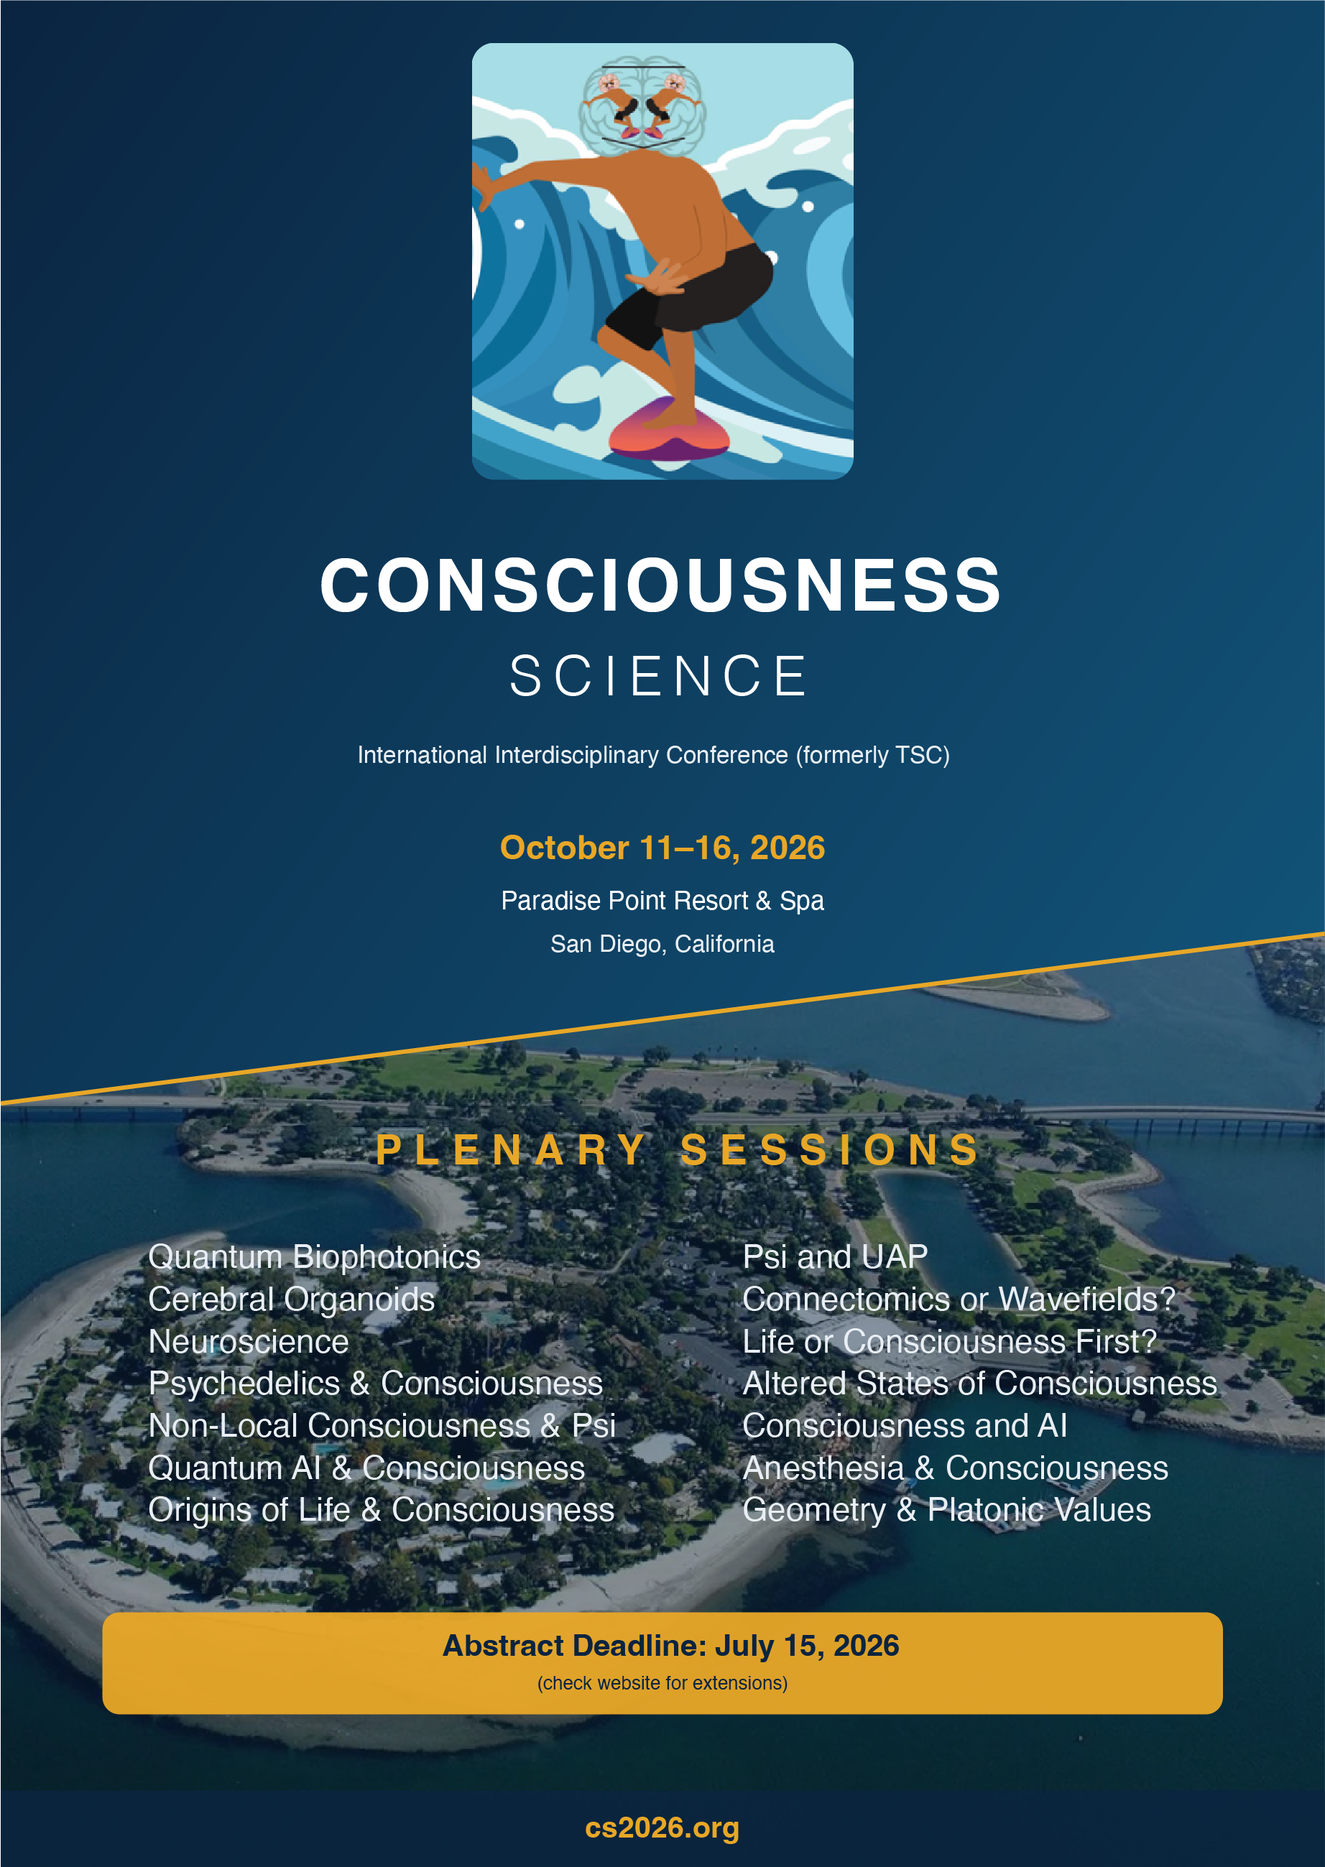
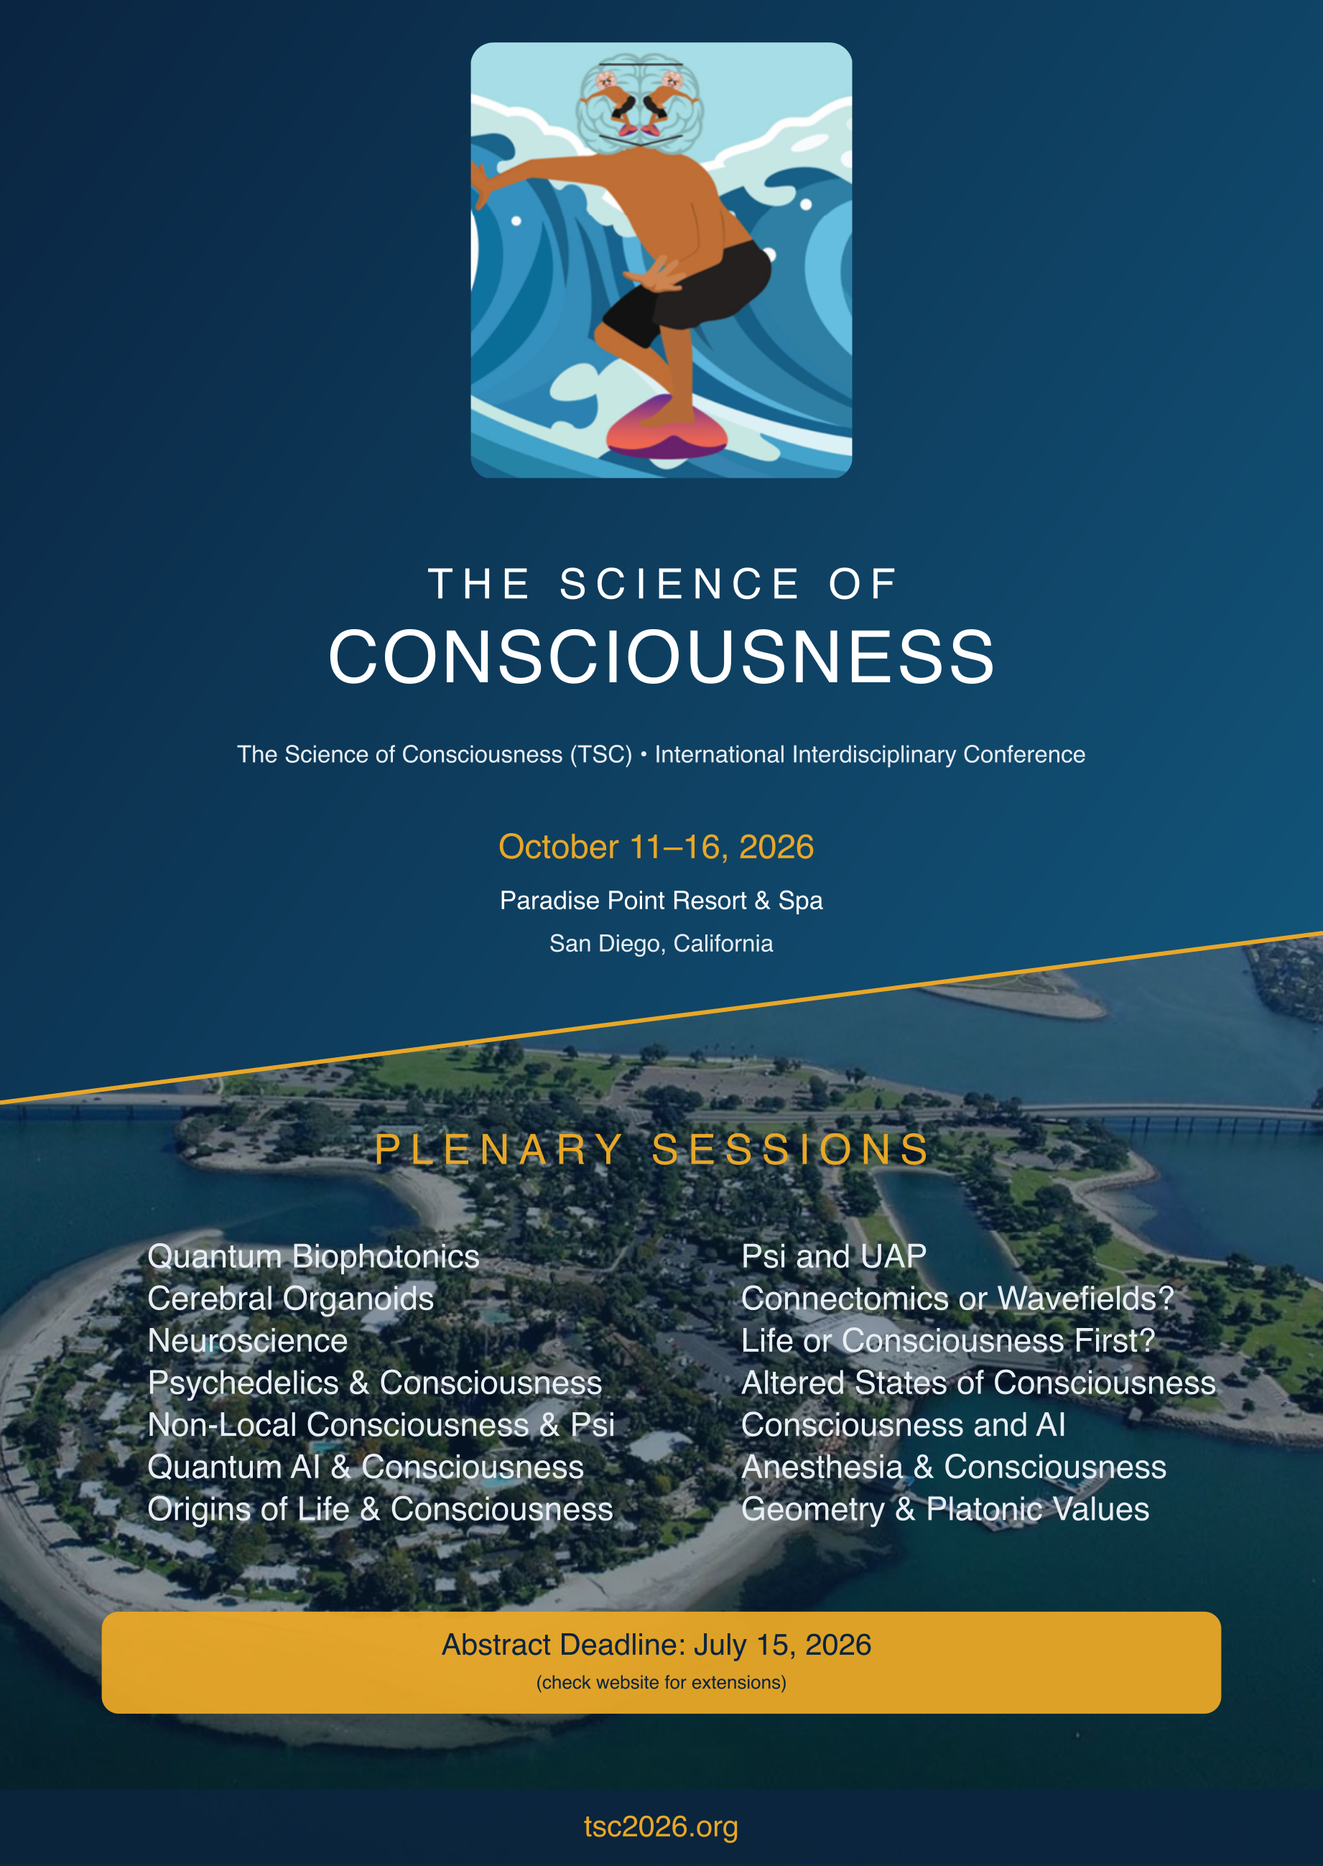
remove moss

diff --git a/workshops.html b/workshops.html
@@ -74,28 +74,6 @@ footer { background: #0a2440; color: #8baac8; padding: 2.5rem 2rem; text-align: 
 footer a { color: #c8ddf0; }
 footer .foot-brand { font-size: 1.05rem; font-weight: 700; color: #fff; margin-bottom: .5rem; }
 
-.login-overlay {
-  position: fixed; inset: 0; z-index: 9999;
-  background: linear-gradient(135deg, #0a2440 0%, #0d3868 40%, #14628a 70%, #1a96b8 100%);
-  display: flex; align-items: center; justify-content: center;
-}
-.login-box {
-  background: #fff; border-radius: 12px; padding: 2.5rem 2rem;
-  max-width: 360px; width: 90%; box-shadow: 0 8px 32px rgba(0,0,0,.3); text-align: center;
-}
-.login-box h2 { font-size: 1.3rem; color: #0a2440; margin-bottom: .3rem; }
-.login-box p { font-size: .85rem; color: #666; margin-bottom: 1.5rem; }
-.login-box input {
-  display: block; width: 100%; padding: .55rem .8rem; margin-bottom: .8rem;
-  border: 1px solid #ccc; border-radius: 6px; font-size: .9rem; font-family: inherit;
-}
-.login-box input:focus { outline: none; border-color: #1a96b8; }
-.login-box button {
-  width: 100%; padding: .6rem; background: #0a2440; color: #fff;
-  border: none; border-radius: 6px; font-size: .95rem; font-weight: 600; cursor: pointer; transition: background .2s;
-}
-.login-box button:hover { background: #14628a; }
-.login-error { color: #c0392b; font-size: .8rem; margin-top: .5rem; display: none; }
 
 @media (max-width: 768px) {
   .topnav ul { display: none; flex-direction: column; position: absolute; top: 56px; left: 0; right: 0; background: rgba(10,36,64,.98); padding: 1rem 2rem; gap: .8rem; }
@@ -108,19 +86,6 @@ footer .foot-brand { font-size: 1.05rem; font-weight: 700; color: #fff; margin-b
 <link rel="stylesheet" href="theme.css">
 </head>
 <body>
-
-<div class="login-overlay" id="loginOverlay">
-  <div class="login-box">
-    <h2>Program Access</h2>
-    <p>This page is restricted to committee members.</p>
-    <form onsubmit="return checkLogin()">
-      <input type="text" id="loginUser" placeholder="Login" autocomplete="off">
-      <input type="password" id="loginPass" placeholder="Password">
-      <button type="submit">Enter</button>
-      <div class="login-error" id="loginError">Incorrect login or password.</div>
-    </form>
-  </div>
-</div>
 
 <nav class="topnav">
   <a href="index.html" class="nav-brand">
@@ -136,7 +101,7 @@ footer .foot-brand { font-size: 1.05rem; font-weight: 700; color: #fff; margin-b
 
 <header class="page-header">
   <h1 id="pageTitle">Workshops</h1>
-  <p class="subtitle" id="pageSubtitle">Sunday, October 11 &middot; 10 workshops</p>
+  <p class="subtitle" id="pageSubtitle">Sunday, October 11 &middot; 6 workshops</p>
 </header>
 
 <div class="back-bar">
@@ -146,34 +111,21 @@ footer .foot-brand { font-size: 1.05rem; font-weight: 700; color: #fff; margin-b
 <div class="session-menu">
   <h2>Select a workshop:</h2>
   <div class="menu-grid">
-    <button class="menu-btn" data-slot="morning" data-panel="s1" onclick="showSession(this,'s1')">W1: Quantum Cognition <span class="btn-time">Morning 9:00&ndash;12:30</span></button>
+    <button class="menu-btn" data-slot="morning" data-panel="s1" onclick="showSession(this,'s1')">W1: Psi &amp; Consciousness <span class="btn-time">Morning 8:30&ndash;12:30</span></button>
     <button class="menu-btn" data-slot="morning" data-panel="s2" onclick="showSession(this,'s2')">W2: Indian Knowledge Systems <span class="btn-time">Morning 9:00&ndash;12:30</span></button>
-    <button class="menu-btn" data-slot="morning" data-panel="s3" onclick="showSession(this,'s3')">W3: Education &amp; Quantum Mind <span class="btn-time">Morning 9:00&ndash;10:20</span></button>
-    <button class="menu-btn" data-slot="morning" data-panel="s4" onclick="showSession(this,'s4')">W4: Economic Systems <span class="btn-time">Morning 10:40&ndash;12:30</span></button>
-    <button class="menu-btn" data-slot="afternoon" data-panel="s5" onclick="showSession(this,'s5')">W5: Brain EM Field <span class="btn-time">Afternoon 2:00&ndash;6:00</span></button>
-    <button class="menu-btn" data-slot="afternoon" data-panel="s6" onclick="showSession(this,'s6')">W6: Photobiomodulation <span class="btn-time">Afternoon 2:00&ndash;6:00</span></button>
-    <button class="menu-btn" data-slot="afternoon" data-panel="s7" onclick="showSession(this,'s7')">W7: Psi &amp; Consciousness <span class="btn-time">Afternoon 2:00&ndash;3:50</span></button>
-    <button class="menu-btn" data-slot="afternoon" data-panel="s8" onclick="showSession(this,'s8')">W8: NDEs &amp; OBEs <span class="btn-time">Afternoon 2:00&ndash;6:00</span></button>
-    <button class="menu-btn" data-slot="afternoon" data-panel="s9" onclick="showSession(this,'s9')">W9: Enlightenment <span class="btn-time">Afternoon 4:10&ndash;6:00</span></button>
-    <button class="menu-btn" data-slot="afternoon" data-panel="s10" onclick="showSession(this,'s10')">W10: Non-Human Consciousness <span class="btn-time">Evening 7:00&ndash;10:00</span></button>
+    <button class="menu-btn" data-slot="morning" data-panel="s3" onclick="showSession(this,'s3')">W3: Women in Consciousness Science <span class="btn-time">Morning 9:00&ndash;10:20</span></button>
+    <button class="menu-btn" data-slot="afternoon" data-panel="s4" onclick="showSession(this,'s4')">W4: Brain EM Field <span class="btn-time">Afternoon 2:00&ndash;4:00</span></button>
+    <button class="menu-btn" data-slot="afternoon" data-panel="s5" onclick="showSession(this,'s5')">W5: NDEs &amp; OBEs <span class="btn-time">Afternoon 2:00&ndash;4:00</span></button>
+    <button class="menu-btn" data-slot="afternoon" data-panel="s6" onclick="showSession(this,'s6')">W6: Non-Human Consciousness <span class="btn-time">Evening 7:00&ndash;10:00</span></button>
   </div>
 </div>
 
 <div class="session-wrap">
 
-<div class="session-panel" data-slot="morning" id="s1">
-  <h3>W1: Quantum Cognition</h3>
-  <div class="ws-meta">Sunday morning &middot; 9:00 am &ndash; 12:30 pm</div>
-  <ol>
-    <li><strong>Jerome R. Busemeyer</strong></li>
-    <li><strong>Harald Atmanspacher</strong></li>
-    <li><strong>Nao Tsuchiya</strong></li>
-  </ol>
-</div>
-
 <div class="session-panel" data-slot="morning" id="s2">
   <h3>W2: Bridging Awareness Dimensions through Quantum Perception, Biology and Music in the Indian Knowledge System Framework</h3>
-  <div class="ws-meta">Sunday morning &middot; 9:00 am &ndash; 12:30 pm &middot; Chair: Laxmidhar Behera</div>
+  <div class="ws-meta">Sunday morning &middot; 9:00 am &ndash; 12:30 pm &middot; Chair: Anirban Bandyopadhyay</div>
+  <p style="font-size:.92rem;color:#555;margin:.2rem 0 .9rem;">Rooted in the Indian Knowledge System, this workshop bridges contemplative insight with modern science &mdash; exploring how quantum perception, biology, and music illuminate the structure of awareness. Drawing on quantum biology, music cognition, signal processing, and meditative practice, the speakers consider consciousness as a resonant, multi-dimensional phenomenon spanning matter, sound, and mind.</p>
   <ol>
     <li><strong>Chayan Nandi</strong></li>
     <li><strong>Venkatesh Chembrulu</strong></li>
@@ -186,69 +138,45 @@ footer .foot-brand { font-size: 1.05rem; font-weight: 700; color: #fff; margin-b
 </div>
 
 <div class="session-panel" data-slot="morning" id="s3">
-  <h3>W3: Education and Transformative Learning, Quantum Mind</h3>
+  <h3>W3: Women in Consciousness Science and Education</h3>
   <div class="ws-meta">Sunday morning &middot; 9:00 am &ndash; 10:20 am</div>
   <ol>
     <li><strong>Joan Walton</strong></li>
     <li><strong>Laurel Waterman</strong></li>
     <li><strong>Marjorie Woollacott</strong></li>
-    <li><strong>Suzanne Gildert</strong></li>
   </ol>
 </div>
 
-<div class="session-panel" data-slot="morning" id="s4">
-  <h3>W4: Consciousness of Economic Systems</h3>
-  <div class="ws-meta">Sunday morning &middot; 10:40 am &ndash; 12:30 pm</div>
-  <ol>
-    <li><strong>Ron Chrisley</strong></li>
-    <li><strong>Richard Ebstein</strong></li>
-    <li><strong>Giorgia Lucchini</strong></li>
-    <li><strong>Kathryn Nave</strong></li>
-    <li><strong>Chew Soo Hong</strong></li>
-    <li><strong>Patrick Schotanus</strong></li>
-    <li><strong>Uzi Awret</strong></li>
-  </ol>
-</div>
-
-<div class="session-panel" data-slot="afternoon" id="s5">
-  <h3>W5: Brain Electromagnetic Field Generation and Information Processing</h3>
-  <div class="ws-meta">Sunday afternoon &middot; 2:00 pm &ndash; 6:00 pm</div>
+<div class="session-panel" data-slot="afternoon" id="s4">
+  <h3>W4: Brain Electromagnetic Field Generation and Information Processing</h3>
+  <div class="ws-meta">Sunday afternoon &middot; 2:00 pm &ndash; 4:00 pm &middot; Chair: M. Bruce MacIver</div>
+  <p style="font-size:.92rem;color:#555;margin:.2rem 0 .9rem;">Electromagnetic field (EMF) theories propose that consciousness arises from the dynamic electromagnetic field generated by the brain&rsquo;s neuronal currents &mdash; the activity reflected in the EEG. Building on evidence that the brain&rsquo;s strongest field activity is directed inward toward its central regions, the workshop examines how these fields integrate neural activity, why external shielding leaves consciousness unaffected while deep-brain stimulation alters it, and what this implies for the binding and &ldquo;hard&rdquo; problems of consciousness. (See MacIver, <a href="https://www.frontiersin.org/journals/human-neuroscience/articles/10.3389/fnhum.2022.1032339/full" target="_blank" rel="noopener">Consciousness and inward electromagnetic field interactions</a>.)</p>
   <ol>
     <li><strong>M. Bruce MacIver</strong></li>
     <li><strong>Johnjoe McFadden</strong></li>
     <li><strong>Michael Levin</strong> (Remote)</li>
-    <li><strong>Arnaud Delorme</strong></li>
     <li><strong>Tam Hunt</strong></li>
   </ol>
 </div>
 
-<div class="session-panel" data-slot="afternoon" id="s6">
-  <h3>W6: Photobiomodulation (PBM)-Induced Deep Meditation &ldquo;Jhana&rdquo; States</h3>
-  <div class="ws-meta">Sunday afternoon &middot; 2:00 pm &ndash; 6:00 pm &middot; Audience participation</div>
+<div class="session-panel" data-slot="morning" id="s1">
+  <h3>W1: Psi &amp; Consciousness</h3>
+  <div class="ws-meta">Sunday morning &middot; 8:30 am &ndash; 12:30 pm &middot; Chair: Thomas Brophy</div>
+  <p style="font-size:.92rem;color:#555;margin:.2rem 0 .9rem;">Can mind reach beyond the brain and body? This workshop presents the experimental study of telepathy, mediumship, out-of-body experiences, and mind&ndash;matter interaction &mdash; with an emphasis on methodological rigour, replication, and peer-reviewed evidence. Together, the talks survey much of the research program of the Institute of Noetic Sciences (IONS).</p>
   <ol>
-    <li><strong>Lew Lim</strong></li>
-    <li><strong>Sanjay Manchandran</strong></li>
-    <li><strong>Reza Zomorrodi</strong></li>
-    <li><strong>Vielight staff</strong></li>
-  </ol>
-</div>
-
-<div class="session-panel" data-slot="afternoon" id="s7">
-  <h3>W7: Psi &amp; Consciousness &ndash; Telepathy &amp; Mindsight</h3>
-  <div class="ws-meta">Sunday afternoon &middot; 2:00 pm &ndash; 3:50 pm</div>
-  <ol>
-    <li><strong>Arnaud Delorme</strong></li>
+    <li><strong>Claudia Welss</strong></li>
     <li><strong>Thomas Brophy</strong></li>
     <li><strong>Dean Radin</strong></li>
-    <li><strong>Diane Hennacy</strong></li>
-    <li><strong>David Chartrand</strong></li>
-    <li><strong>Beatriz Villarroel</strong></li>
+    <li><strong>Helan&eacute; Wahbeh</strong></li>
+    <li><strong>Erik Brinsmead</strong></li>
+    <li><strong>Sitara Tadeo</strong></li>
   </ol>
 </div>
 
-<div class="session-panel" data-slot="afternoon" id="s8">
-  <h3>W8: Research at the Edge of Consciousness: NDEs, OBEs and Past Life Memories</h3>
-  <div class="ws-meta">Sunday afternoon &middot; 2:00 pm &ndash; 6:00 pm</div>
+<div class="session-panel" data-slot="afternoon" id="s5">
+  <h3>W5: Research at the Edge of Consciousness: NDEs, OBEs and Past Life Memories</h3>
+  <div class="ws-meta">Sunday afternoon &middot; 2:00 pm &ndash; 4:00 pm &middot; Chair: Kunal Mooley</div>
+  <p style="font-size:.92rem;color:#555;margin:.2rem 0 .9rem;">At the borderlands of consciousness, near-death experiences (NDEs), out-of-body experiences (OBEs), and reports of past-life memories raise pointed questions about whether consciousness depends entirely on the brain. This workshop reviews the scientific study of these phenomena &mdash; from prospective hospital NDE research and tests of perception during OBEs to systematically investigated cases of children who report past-life memories &mdash; and what they may imply for theories of mind.</p>
   <ol>
     <li><strong>Kim Penberthy</strong></li>
     <li><strong>Martin Fleming</strong></li>
@@ -259,28 +187,18 @@ footer .foot-brand { font-size: 1.05rem; font-weight: 700; color: #fff; margin-b
   </ol>
 </div>
 
-<div class="session-panel" data-slot="afternoon" id="s9">
-  <h3>W9: Enlightenment and Awakened States</h3>
-  <div class="ws-meta">Sunday afternoon &middot; 4:10 pm &ndash; 6:00 pm</div>
-  <ol>
-    <li><strong>Jeffery A. Martin</strong></li>
-    <li><strong>Thomas Campbell</strong></li>
-  </ol>
-</div>
-
-<div class="session-panel" data-slot="afternoon" id="s10">
-  <h3>W10: The Varieties of Non-Human Consciousness</h3>
-  <div class="ws-meta">Sunday evening &middot; 7:00 pm &ndash; 10:00 pm</div>
+<div class="session-panel" data-slot="afternoon" id="s6">
+  <h3>W6: The Varieties of Non-Human Consciousness</h3>
+  <div class="ws-meta">Sunday evening &middot; 7:00 pm &ndash; 10:00 pm &middot; Chair: Susan Schneider</div>
+  <p style="font-size:.92rem;color:#555;margin:.2rem 0 .9rem;">Could consciousness extend beyond the human brain &mdash; to animals, plants, cultured neurons, or artificial systems? This workshop probes the criteria and evidence for consciousness in non-human systems, from brain organoids and microtubule-based models to machine intelligence, and asks how we might recognize or measure minds unlike our own.</p>
   <ol>
     <li><strong>Susan Schneider</strong></li>
     <li><strong>Rajnish Khanna</strong></li>
-    <li><strong>Ben Goertzel</strong></li>
-    <li><strong>Nao Tsuchiya</strong></li>
-    <li><strong>Hartmut Neven</strong></li>
     <li><strong>Alysson Muotri</strong></li>
     <li><strong>Anirban Bandyopadhyay</strong></li>
     <li><strong>Dana Kippel</strong></li>
-    <li><strong>Stuart Hameroff</strong></li>
+    <li><strong>Mike Wiest</strong></li>
+    <li><strong>Garry Nolan</strong></li>
   </ol>
 </div>
 
@@ -290,29 +208,18 @@ footer .foot-brand { font-size: 1.05rem; font-weight: 700; color: #fff; margin-b
 <script src="footer.js"></script>
 
 <script>
-function checkLogin() {
-  var u = document.getElementById('loginUser').value;
-  var p = document.getElementById('loginPass').value;
-  if (u === 'cs2026' && p === 'cs2026') {
-    document.getElementById('loginOverlay').style.display = 'none';
-    sessionStorage.setItem('programAuth', '1');
-    return false;
-  }
-  document.getElementById('loginError').style.display = 'block';
-  return false;
-}
-if (sessionStorage.getItem('programAuth') === '1') {
-  document.getElementById('loginOverlay').style.display = 'none';
-}
-
 function showSession(btn, id) {
   document.querySelectorAll('.session-panel').forEach(function(p) { p.classList.remove('active'); });
   document.querySelectorAll('.menu-btn').forEach(function(b) { b.classList.remove('active'); });
   document.getElementById(id).classList.add('active');
   btn.classList.add('active');
+  // Reflect the choice in the URL bar (no reload/scroll) so the link can be copied & shared.
+  if (PANEL_HASH[id] && window.history && history.replaceState) {
+    history.replaceState(null, '', '#' + PANEL_HASH[id]);
+  }
 }
 
-// Filter by hash: #morning shows W1-W4, #afternoon shows W5-W10
+// Filter by hash: #morning / #afternoon show only that time slot.
 function filterBySlot() {
   var slot = location.hash.replace('#', '');
   if (slot !== 'morning' && slot !== 'afternoon') return;
@@ -336,22 +243,53 @@ function filterBySlot() {
   // Update title and subtitle
   if (slot === 'morning') {
     document.getElementById('pageTitle').textContent = 'Morning Workshops';
-    document.getElementById('pageSubtitle').innerHTML = 'Sunday, October 11 &middot; 9:00 am\u20131:00 pm &middot; 4 workshops';
+    document.getElementById('pageSubtitle').innerHTML = 'Sunday, October 11 &middot; 8:30 am\u20131:00 pm &middot; 3 workshops';
   } else {
     document.getElementById('pageTitle').textContent = 'Afternoon & Evening Workshops';
-    document.getElementById('pageSubtitle').innerHTML = 'Sunday, October 11 &middot; 2:00\u201310:00 pm &middot; 6 workshops';
+    document.getElementById('pageSubtitle').innerHTML = 'Sunday, October 11 &middot; 2:00\u201310:00 pm &middot; 3 workshops';
   }
 }
 
-filterBySlot();
-// If no hash, show all with first active
-if (!location.hash || (location.hash !== '#morning' && location.hash !== '#afternoon')) {
+// Direct-link hooks: e.g. workshops.html#obe opens the W8 tab, same as clicking it.
+var WORKSHOP_HASH = {
+  'psi': 's1', 'indian-knowledge': 's2', 'women': 's3', 'education': 's3',
+  'emf': 's4', 'em-fields': 's4', 'obe': 's5', 'nde': 's5', 'non-human': 's6'
+};
+
+// Reverse map: clicking a workshop writes its hook into the URL.
+var PANEL_HASH = {
+  's1': 'psi', 's2': 'indian-knowledge', 's3': 'women',
+  's4': 'emf', 's5': 'obe', 's6': 'non-human'
+};
+
+function showByPanel(panelId) {
+  document.querySelectorAll('.menu-btn').forEach(function(b) { b.style.display = ''; b.classList.remove('active'); });
+  document.querySelectorAll('.session-panel').forEach(function(p) { p.classList.remove('active'); });
+  var btn = document.querySelector('.menu-btn[data-panel="' + panelId + '"]');
+  var panel = document.getElementById(panelId);
+  if (btn) btn.classList.add('active');
+  if (panel) panel.classList.add('active');
+}
+
+// Apply the current hash. Returns true if it matched a known hook.
+function applyHash() {
+  var h = location.hash.replace('#', '').toLowerCase();
+  if (h === 'morning' || h === 'afternoon') { filterBySlot(); return true; }
+  if (WORKSHOP_HASH[h]) { showByPanel(WORKSHOP_HASH[h]); return true; }
+  return false;
+}
+
+if (!applyHash()) {
+  // No recognized hash — show all workshops, first one active.
   var firstBtn = document.querySelector('.menu-btn');
   if (firstBtn) {
     firstBtn.classList.add('active');
     document.getElementById(firstBtn.getAttribute('data-panel')).classList.add('active');
   }
 }
+
+// React to hash changes without a reload.
+window.addEventListener('hashchange', applyHash);
 
 </script>
 </body>

diff --git a/flyer/generate_flyers.py b/flyer/generate_flyers.py
@@ -42,13 +42,13 @@ DARK_TEXT = "#222222"
 GRAY = "#555555"
 
 # Conference content
-TITLE = "Consciousness Science 2026"
-SUBTITLE = "International Interdisciplinary Conference"
+TITLE = "The Science of Consciousness 2026"
+SUBTITLE = "The Science of Consciousness (TSC) • International Interdisciplinary Conference"
 DATES = "October 11–16, 2026"
 VENUE = "Paradise Point Resort & Spa"
 LOCATION = "San Diego, California"
-WEBSITE = "cs2026.org"
-ABSTRACT_DEADLINE = "Abstract Deadline: July 1, 2026"
+WEBSITE = "tsc2026.org"
+ABSTRACT_DEADLINE = "Abstract Deadline: July 15, 2026"
 ABSTRACT_NOTE = "(check website for extensions)"
 
 THEMES_SHORT = [
